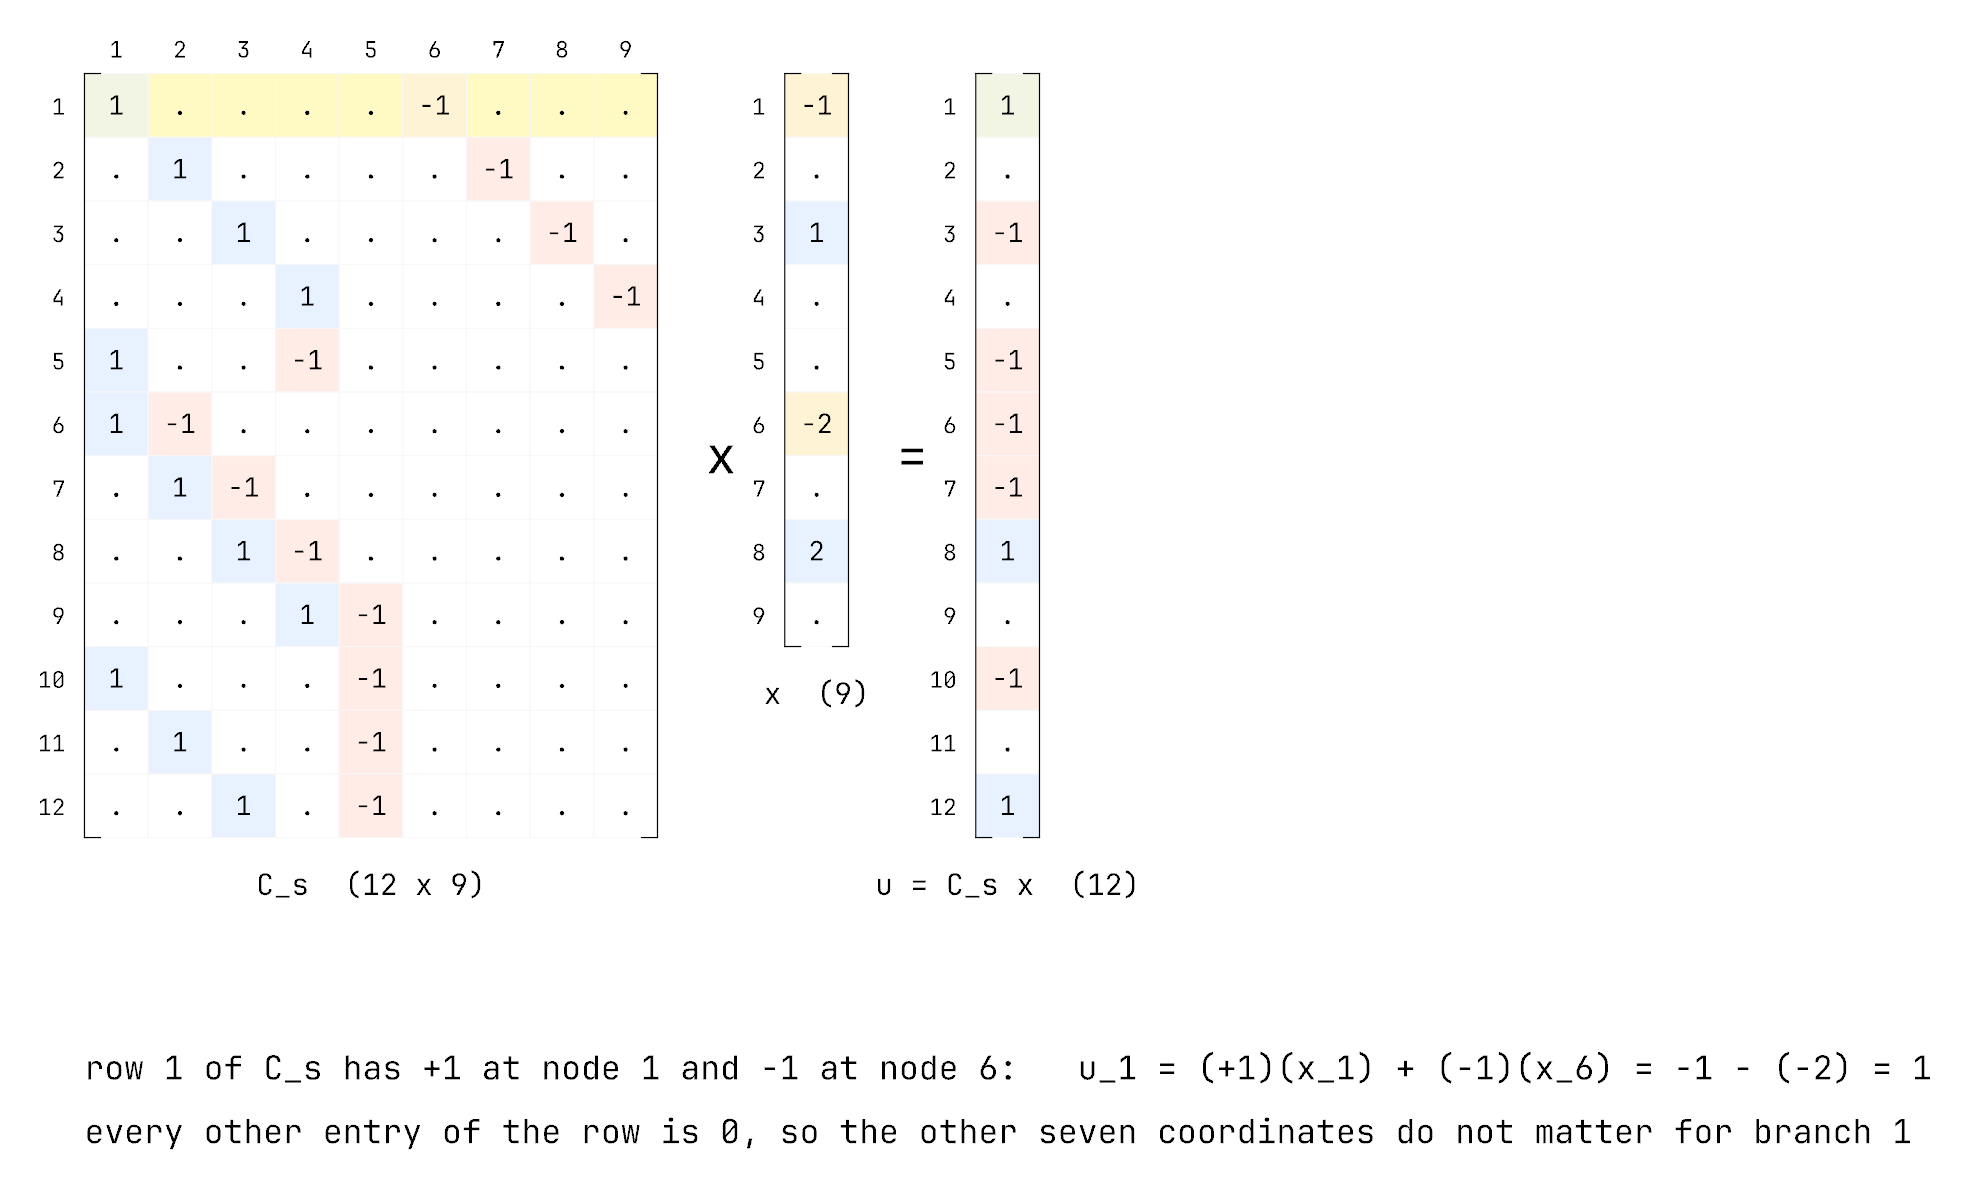
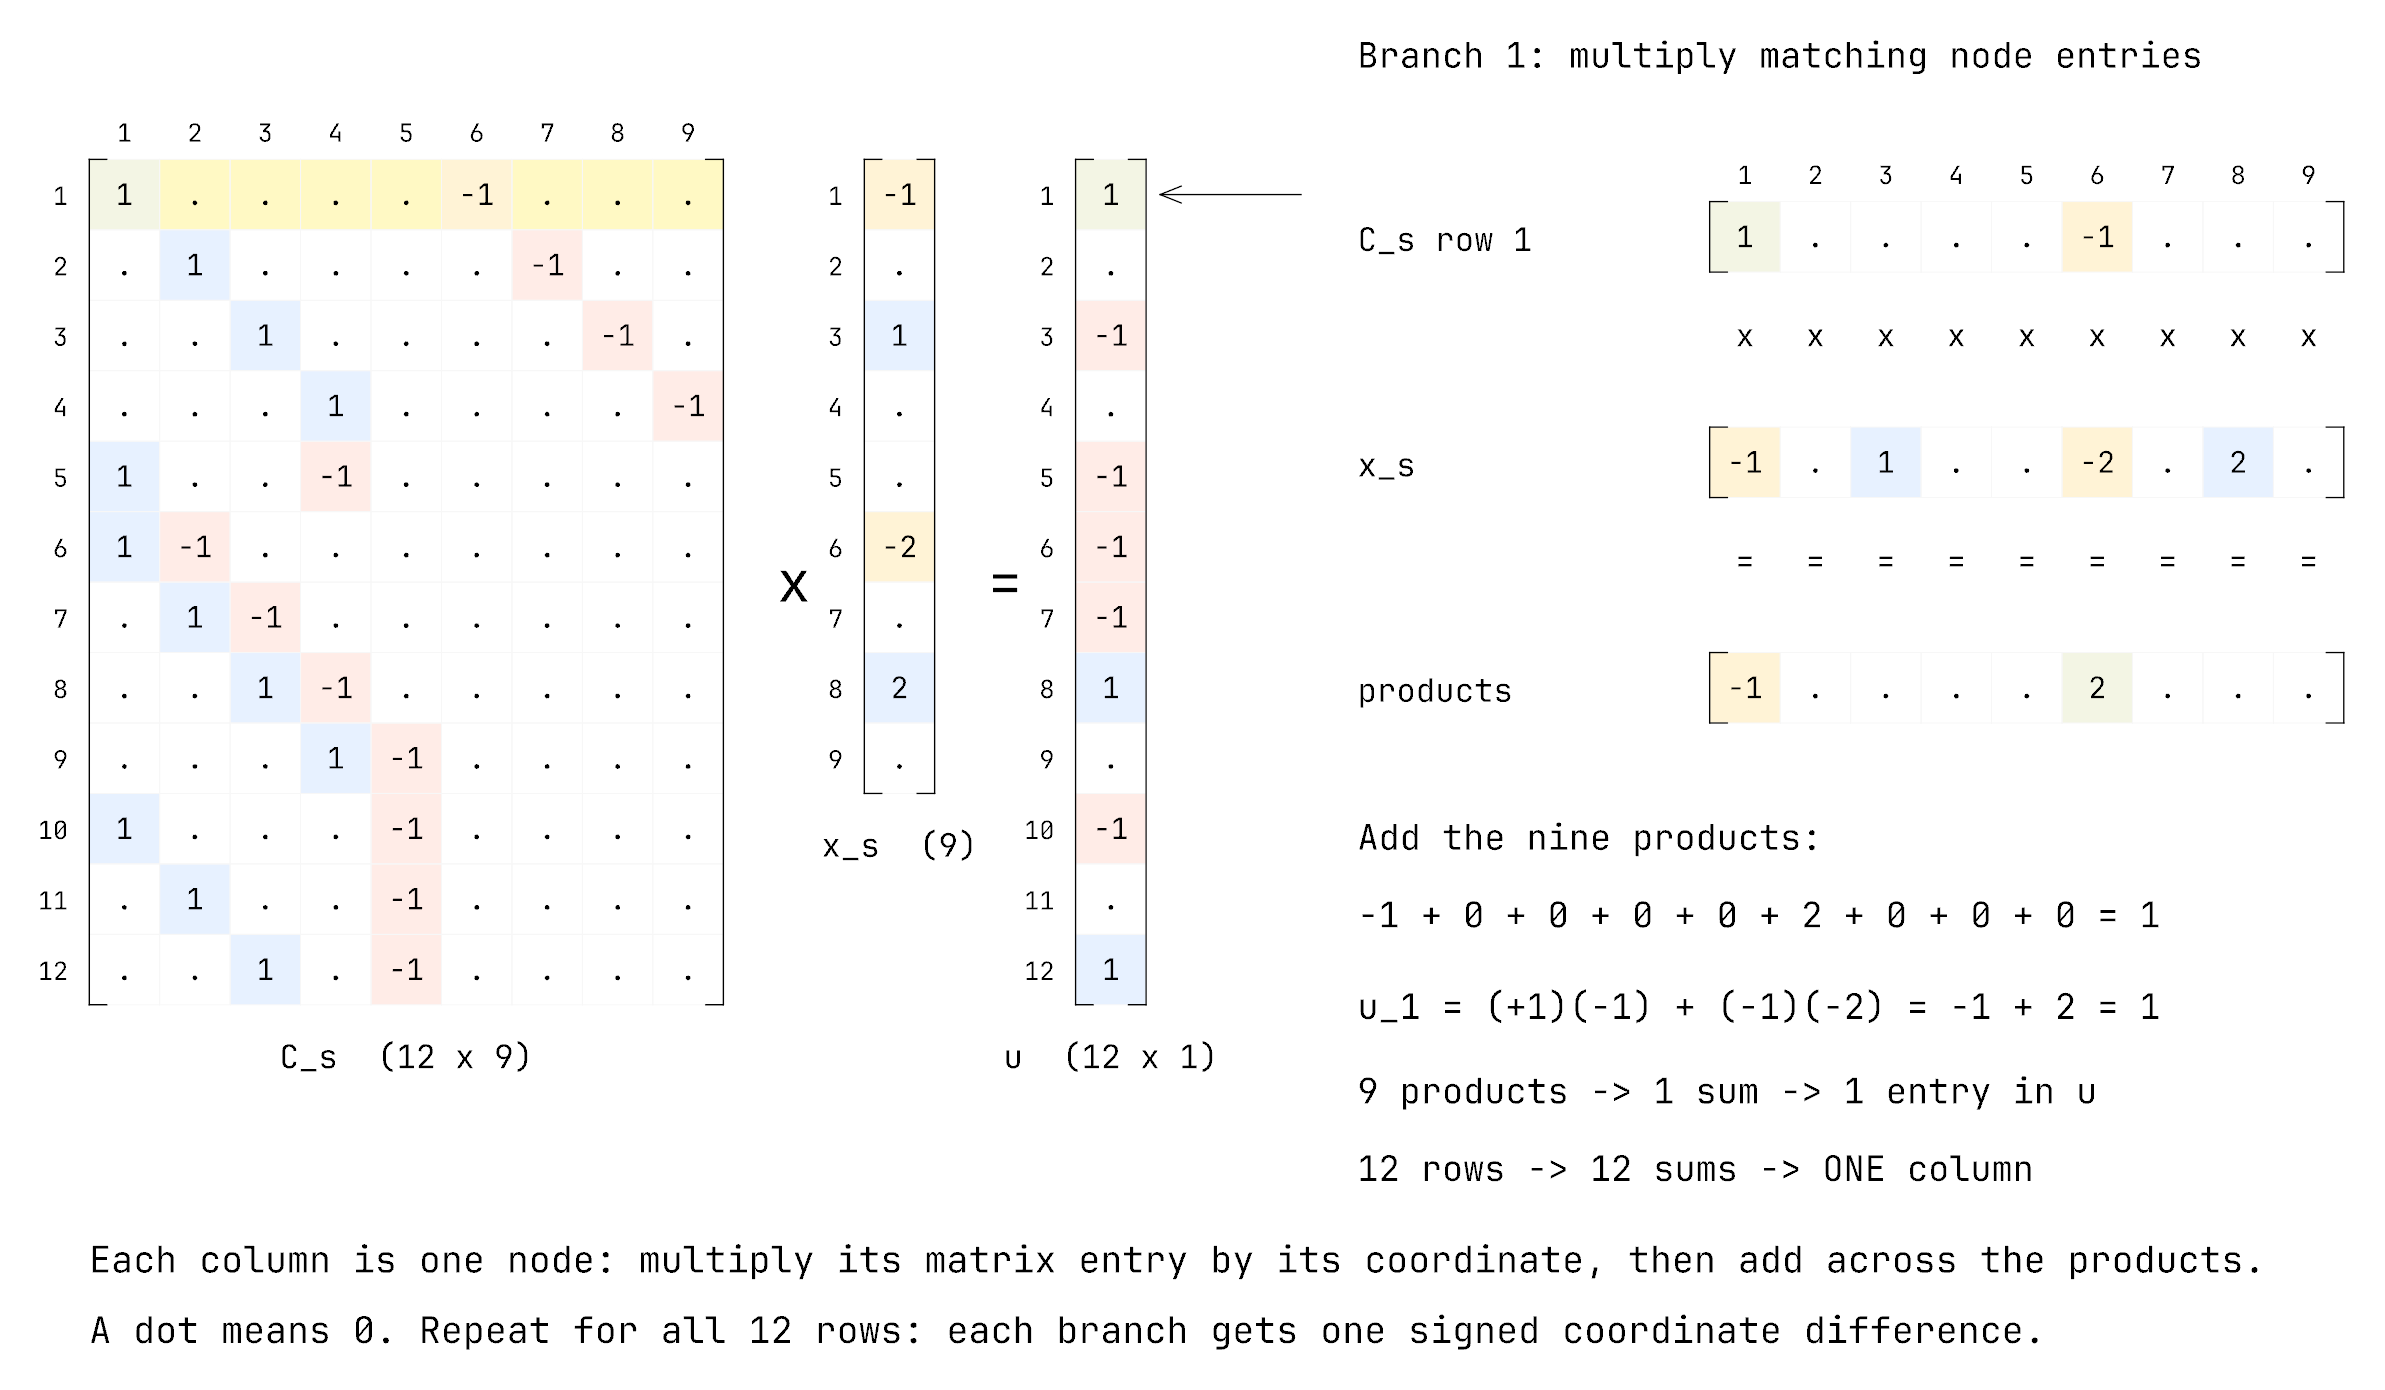
docs: expand original matrix diagram to show row products and sums

diff --git a/examples/form_finding/schek_app.py b/examples/form_finding/schek_app.py
@@ -184,9 +184,10 @@ writes it. Both give the same numbers.
    underneath its matching matrix entry. Multiply vertically, then add the nine
    products horizontally:
 
-   ![Matrix-vector multiplication in four steps: align node columns, multiply matching entries, then add the products.](images/schek_matvec_walkthrough.png)
+   ![The connectivity matrix times the coordinate vector, with the highlighted first row expanded into individual products and their sum.](images/schek_icon_matvec.png)
 
-   **Read the two highlighted columns first.** At node 1, multiply
+   **Read the expanded calculation on the right.** The two highlighted columns
+   belong to nodes 1 and 6. At node 1, multiply
    $(+1)\times(-1)=-1$. At node 6, multiply $(-1)\times(-2)=+2$.
    The other seven matrix entries are zero, so their products are zero even if
    the corresponding coordinate is nonzero. Add the products: $-1+2=1$ metre.
@@ -203,6 +204,20 @@ writes it. Both give the same numbers.
    = \underbrace{u}_{12\text{ branch differences}}.
    $$
 
+   **Why is the answer just one column?** Each row gives **one sum**, not nine
+   separate answers. Row 1 gives $u_1=1$, row 2 gives $u_2=0$, and so on.
+   Stack the twelve row sums vertically to form the single output vector $u$.
+   In column-vector notation the dimensions are $(12\times9)(9\times1)=(12\times1)$:
+   the nine columns match the nine input coordinates, while the twelve matrix
+   rows determine the twelve output entries. Here the input contains only the
+   $x$-coordinate of each node, so there is only one input column. A later
+   three-column input holding $x$, $y$, and $z$ would give three output columns,
+   one set of branch differences for each coordinate axis.
+
+   In this NumPy code, `x_demo.shape` is `(9,)` and the result's shape is `(12,)`:
+   they are one-dimensional arrays. The diagram draws them as columns to make
+   the row-by-row multiplication clear.
+
    Here $x_s$ means the coordinates of **all nine nodes** (free and fixed),
    stored below as `x_demo`. Later, $x$ alone denotes only the free-node
    coordinates. Thus `C_s @ x_demo` uses nine coordinates; `C @ x` uses five.
@@ -212,7 +227,6 @@ writes it. Both give the same numbers.
    along $x$ is not the full three-dimensional branch length; B.2 combines
    the differences along all three axes to compute that length.
 
-   ![icon: matrix times vector](images/schek_icon_matvec.png)
 3. **Transpose times vector = add up at the nodes.** $C^{t}$ swaps rows and
    columns, so $C^{t} f$ has one number per *node*: the sum of the branch values $f_j$
    of the branches at that node, with $+$ for branches that start there and $-$ for

diff --git a/examples/form_finding/schek_1974_figures.py b/examples/form_finding/schek_1974_figures.py
@@ -377,11 +377,31 @@ def icon_scenes(gl, out, layout):
     sc = scene("icon_matvec", "")
     x1, yb = matrix_icon(sc, gl, C_s, 0, 0, cell, "C_s  (12 x 9)", rows, cols, hi_rows=[0])
     op_symbol(sc, gl, "x", x1 + 0.5, -m * cell / 2, 0.4)
-    x2, _ = matrix_icon(sc, gl, x_all[:, None], x1 + 1.0, 0, cell, "x  (9)", cols, None, hi_rows=[0, 5])
+    x2, _ = matrix_icon(sc, gl, x_all[:, None], x1 + 1.0, 0, cell, "x_s  (9)", cols, None, hi_rows=[0, 5])
     op_symbol(sc, gl, "=", x2 + 0.5, -m * cell / 2, 0.4)
-    matrix_icon(sc, gl, u[:, None], x2 + 1.0, 0, cell, "u = C_s x  (12)", rows, None, hi_rows=[0])
-    sc.text(gl, "row 1 of C_s has +1 at node 1 and -1 at node 6:   u_1 = (+1)(x_1) + (-1)(x_6) = -1 - (-2) = 1", [0, yb - 1.9, 0], 0.26)
-    sc.text(gl, "every other entry of the row is 0, so the other seven coordinates do not matter for branch 1", [0, yb - 2.4, 0], 0.26)
+    matrix_icon(sc, gl, u[:, None], x2 + 1.0, 0, cell, "u  (12 x 1)", rows, None, hi_rows=[0])
+    # Expand the highlighted row using the same cells, brackets, labels and colours.
+    detail_x, row_x = 9.0, 11.5
+    sc.text(gl, "Branch 1: multiply matching node entries", [detail_x, 0.65, 0], 0.25)
+    products = C_s[0] * x_all
+    for label, values, y0 in [("C_s row 1", C_s[0], -0.3),
+                              ("x_s", x_all, -1.9),
+                              ("products", products, -3.5)]:
+        sc.text(gl, label, [detail_x, y0 - 0.35, 0], 0.23)
+        matrix_icon(sc, gl, values[None, :], row_x, y0, cell,
+                    col_labels=cols if y0 == -0.3 else None, hi_cols=[0, 5])
+    for c in range(n + n_f):
+        cx = row_x + (c + 0.5) * cell
+        op_symbol(sc, gl, "x", cx, -1.25, 0.22)
+        op_symbol(sc, gl, "=", cx, -2.85, 0.22)
+    sc.text(gl, "Add the nine products:", [detail_x, -4.9, 0], 0.25)
+    sc.text(gl, "-1 + 0 + 0 + 0 + 0 + 2 + 0 + 0 + 0 = 1", [detail_x, -5.45, 0], 0.25)
+    sc.text(gl, "u_1 = (+1)(-1) + (-1)(-2) = -1 + 2 = 1", [detail_x, -6.1, 0], 0.25)
+    sc.text(gl, "9 products -> 1 sum -> 1 entry in u", [detail_x, -6.7, 0], 0.25)
+    sc.text(gl, "12 rows -> 12 sums -> ONE column", [detail_x, -7.25, 0], 0.25)
+    sc.arrow([8.6, -0.25, 0], [7.6, -0.25, 0], head=0.15)
+    sc.text(gl, "Each column is one node: multiply its matrix entry by its coordinate, then add across the products.", [0, yb - 1.9, 0], 0.26)
+    sc.text(gl, "A dot means 0. Repeat for all 12 rows: each branch gets one signed coordinate difference.", [0, yb - 2.4, 0], 0.26)
     sc.dump(out / "icon_matvec.json")
     layout["icon_matvec"] = {"panels": [["icon_matvec.json", [0, 0, 0]]], "views": ["top"], "caption": ""}
 

diff --git a/knowledge/04_form_finding/compas_fd.md b/knowledge/04_form_finding/compas_fd.md
@@ -354,9 +354,10 @@ writes it. Both give the same numbers.
    underneath its matching matrix entry. Multiply vertically, then add the nine
    products horizontally:
 
-   ![Matrix-vector multiplication in four steps: align node columns, multiply matching entries, then add the products.](images/schek_matvec_walkthrough.png)
+   ![The connectivity matrix times the coordinate vector, with the highlighted first row expanded into individual products and their sum.](images/schek_icon_matvec.png)
 
-   **Read the two highlighted columns first.** At node 1, multiply
+   **Read the expanded calculation on the right.** The two highlighted columns
+   belong to nodes 1 and 6. At node 1, multiply
    $(+1)\times(-1)=-1$. At node 6, multiply $(-1)\times(-2)=+2$.
    The other seven matrix entries are zero, so their products are zero even if
    the corresponding coordinate is nonzero. Add the products: $-1+2=1$ metre.
@@ -373,6 +374,20 @@ writes it. Both give the same numbers.
    = \underbrace{u}_{12\text{ branch differences}}.
    $$
 
+   **Why is the answer just one column?** Each row gives **one sum**, not nine
+   separate answers. Row 1 gives $u_1=1$, row 2 gives $u_2=0$, and so on.
+   Stack the twelve row sums vertically to form the single output vector $u$.
+   In column-vector notation the dimensions are $(12\times9)(9\times1)=(12\times1)$:
+   the nine columns match the nine input coordinates, while the twelve matrix
+   rows determine the twelve output entries. Here the input contains only the
+   $x$-coordinate of each node, so there is only one input column. A later
+   three-column input holding $x$, $y$, and $z$ would give three output columns,
+   one set of branch differences for each coordinate axis.
+
+   In this NumPy code, `x_demo.shape` is `(9,)` and the result's shape is `(12,)`:
+   they are one-dimensional arrays. The diagram draws them as columns to make
+   the row-by-row multiplication clear.
+
    Here $x_s$ means the coordinates of **all nine nodes** (free and fixed),
    stored below as `x_demo`. Later, $x$ alone denotes only the free-node
    coordinates. Thus `C_s @ x_demo` uses nine coordinates; `C @ x` uses five.
@@ -382,7 +397,6 @@ writes it. Both give the same numbers.
    along $x$ is not the full three-dimensional branch length; B.2 combines
    the differences along all three axes to compute that length.
 
-   ![icon: matrix times vector](images/schek_icon_matvec.png)
 3. **Transpose times vector = add up at the nodes.** $C^{t}$ swaps rows and
    columns, so $C^{t} f$ has one number per *node*: the sum of the branch values $f_j$
    of the branches at that node, with $+$ for branches that start there and $-$ for
